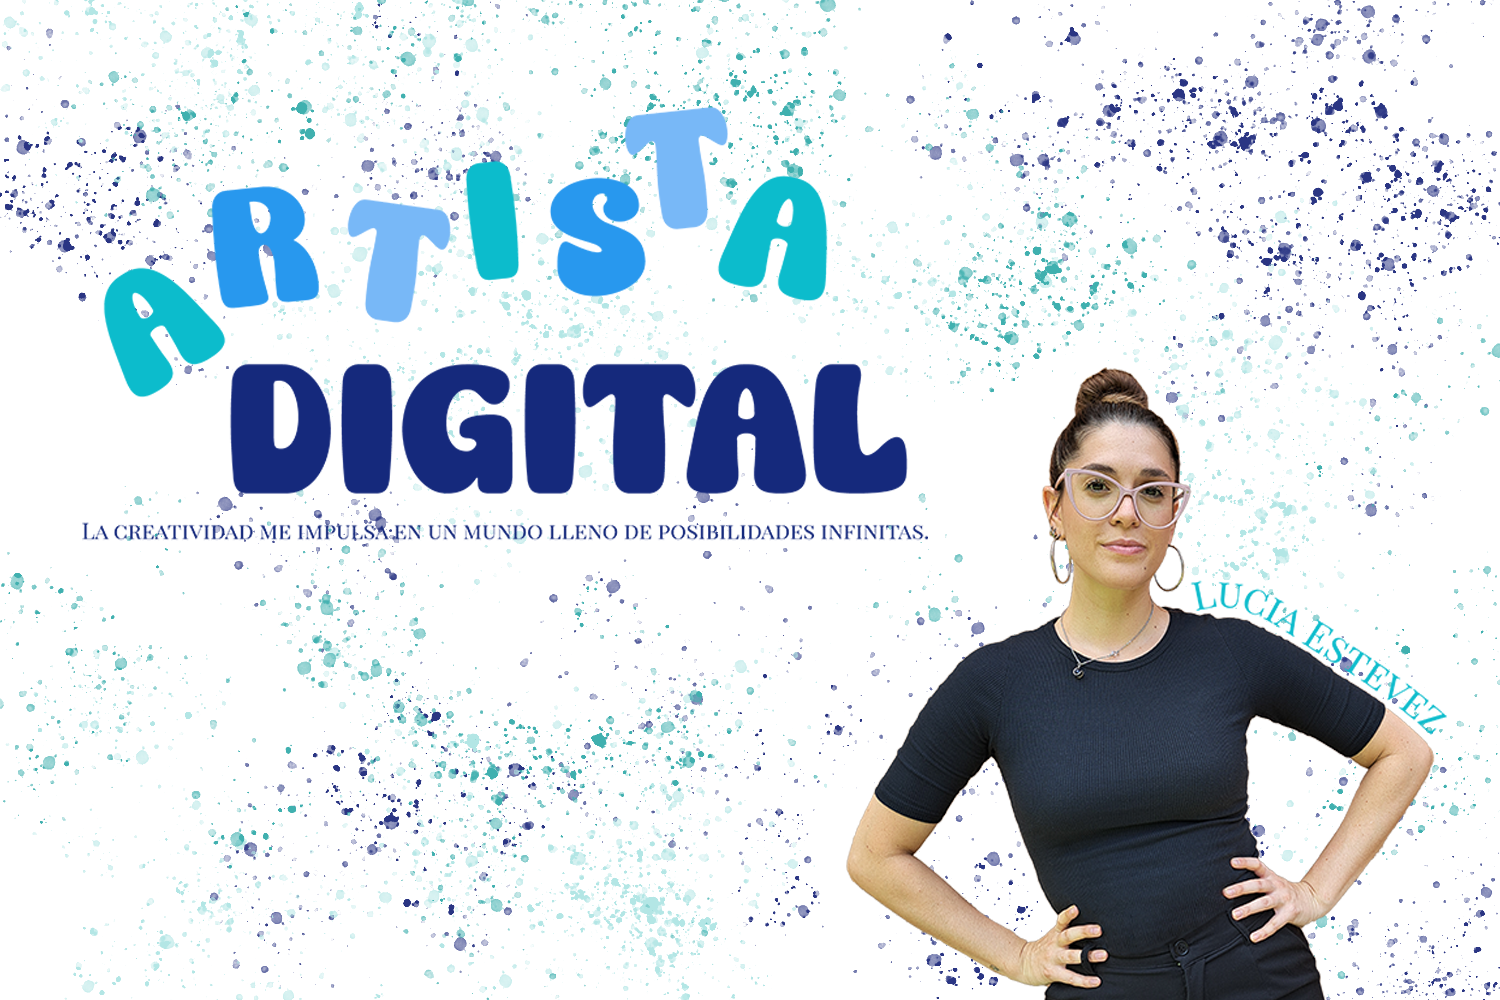
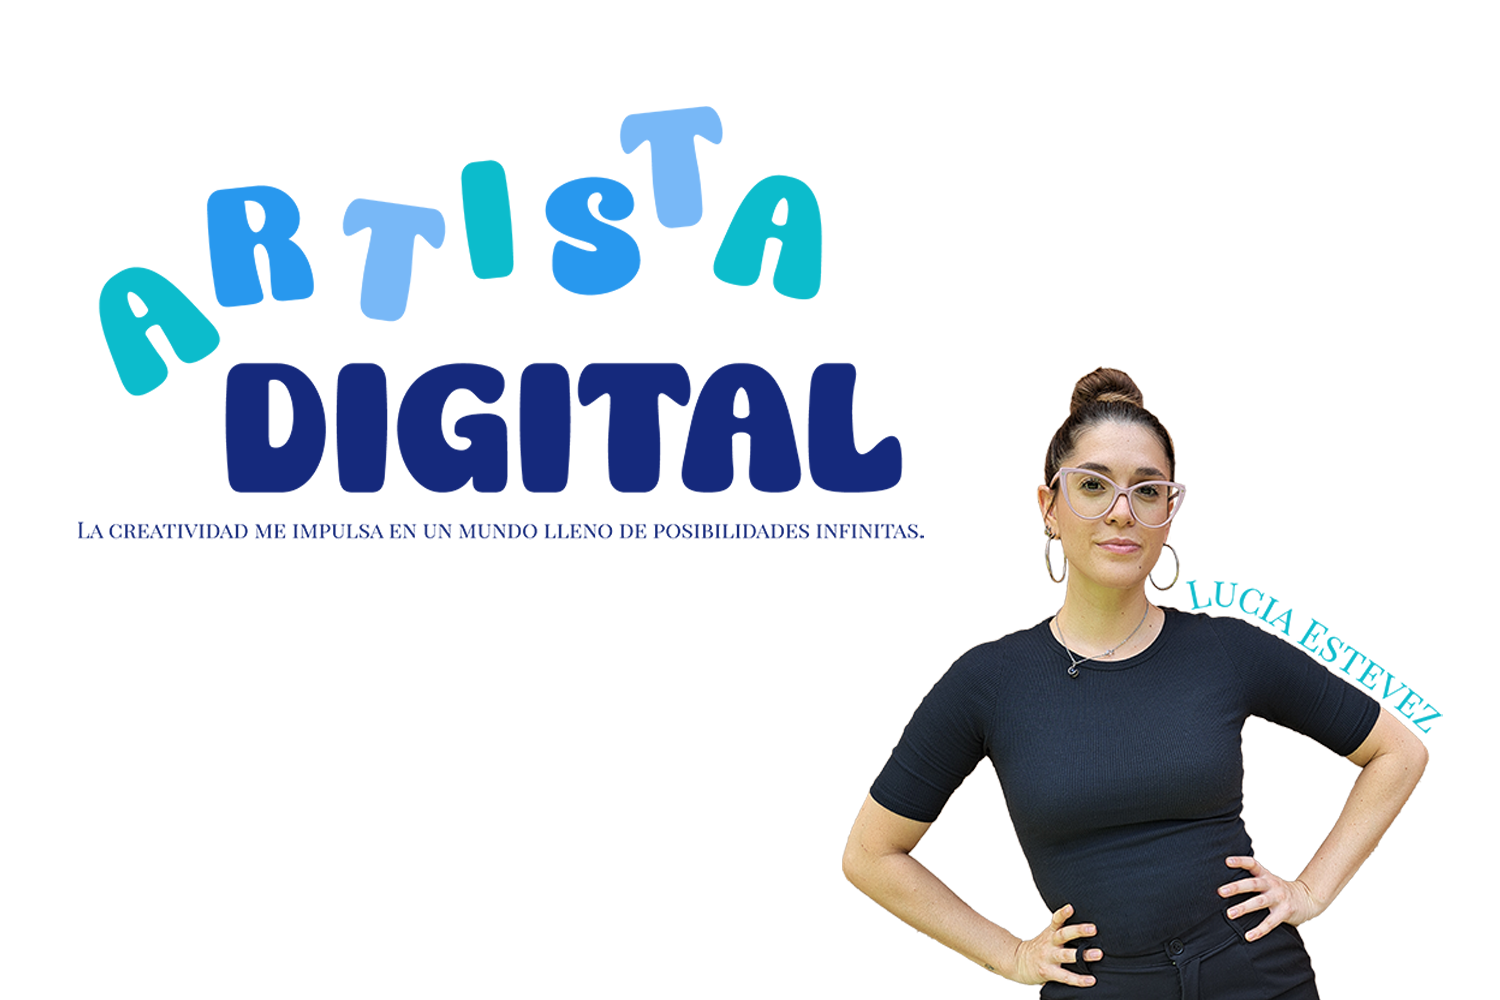
inicio arreglado

diff --git a/css/styles.css b/css/styles.css
@@ -85,7 +85,13 @@ h4 {
 
 
 .index{
-margin-top: 0.3em;
+    display: flex;
+    justify-content: center;
+    margin-top: 0.3em;
+}
+
+.index img {
+    width: 72%;
 }
 
 
@@ -586,6 +592,10 @@ margin-top: 0.3em;
 @media (min-width: 360px) and (max-width: 821px) {
 
     .img-portada-1 {
+        width: 0;
+    }
+
+    .index{
         width: 0;
     }
 

diff --git a/index.html b/index.html
@@ -62,7 +62,7 @@
 
     <section>
       <article>
-        <div class="img-portada-1 index">
+        <div class="index">
         <img src="./img/portadas/inicio-index.png" alt="" >
       </div>
 
